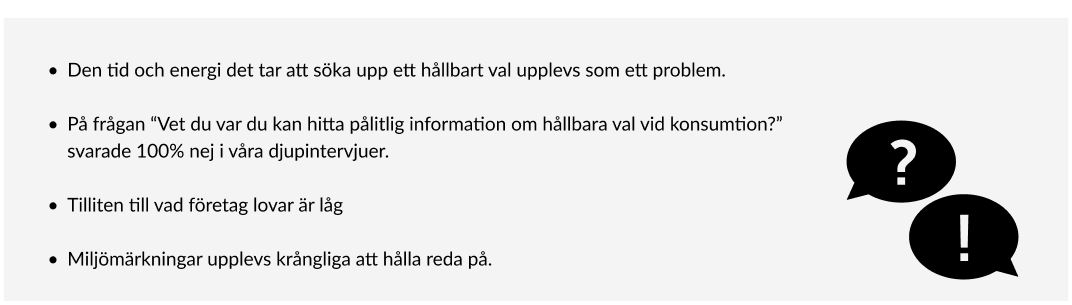
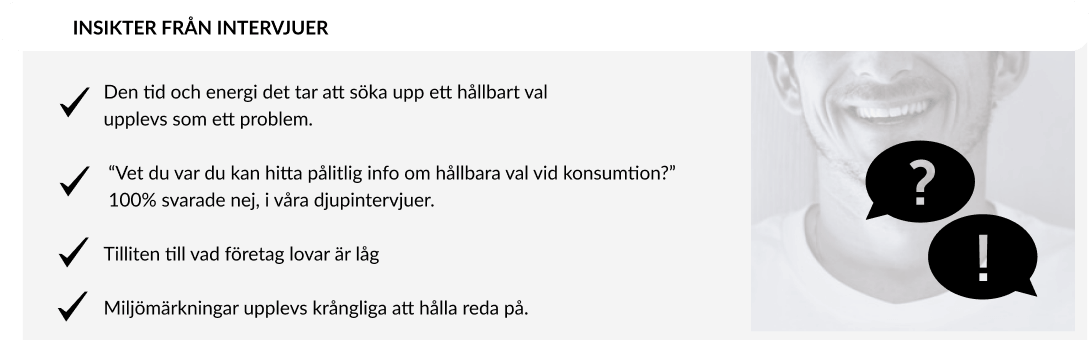
Tillägg innehåll

diff --git a/project1.html b/project1.html
@@ -34,7 +34,7 @@
                 <h1>UX Case study
                     <br><span>Hållbara <br> köpguiden</span>
                 </h1>
-                <p class="ingress_projekt">Trots att man försöker vara insatt och göra medvetna konsumtionsval, är det
+                <p class="ingress_projekt">Hur mycket man än försöker läsa på och göra hållbara val, är det
                     nästan alltid väldigt svårt.
                     <br> Det rätta valet borde vara det lätta valet.
                     <br> <br>
@@ -71,9 +71,10 @@
                 <p> 5 veckor</p>
             </div>
         </section>
+         <!-- 
         <section class="projektinfo_ruta_link">
             <a href=# target="_blank" class="button">Länk till prototypen</a>
-        </section>
+        </section>-->
 
         <!-- Projektets olika faser beskrivs med en artikel för varje fas -->
 
@@ -83,8 +84,12 @@
                 <h2>Design <br> Process</h2>
                 <div class="projekt_container_text">
                 <div class="projekt_text_spalt">
+                    <h3>Skapa en digital tjänst <br> med tema "Hållbarhet"</h3>
+                    <p>Alla vet att vi konsumerar alldeles för mycket i Sverige, och att man åtminstone borde välja det mer hållbara alternativet när man köper något. Men vad är hållbart? Vad var det nu igen som var så dåligt med vanlig tandkräm? Eller vanliga skor? Vad ska man välja istället? Vi ville hitta en lösning som gör hållbar konsumtion enklare för konsumenterna.</p>
                     <h3>Design thinking i fem steg</h3>
-                    <p> Vi har tillsammans samlat in kvantitativ information, intervjuat, skissat, och användartestat. Detta för att samtliga i gruppen skulle kunna vara med i hela designprocessen <br> <br> Insikter om användarna från de olika faserna påverkade våra designbeslut genom hela projektet i takt med att vår lösning växte fram.</p>
+                    <p> Insikter om användarna genom faserna påverkade våra designbeslut i takt med att vår lösning växte fram.<br> <br> 
+                        Vi har tillsammans samlat in kvantitativ information, intervjuat, skissat, prototypat och användartestat. Detta för att samtliga i gruppen skulle kunna vara med i hela designprocessen.
+                          </p>
                 </div>
                 <div class="artikelbild_right" >
                     
@@ -120,16 +125,15 @@
                 <div class="projekt_container_text">
                     <div class="projekt_text_spalt">
                         <h3>Vad tänker konsumenter <br> om hållbarhet? </h3>
-                        <p>  Svårt? Värt besväret? Genom <strong>intervjuer</strong> med deltagare i varierande åldrar och med olika stort intresse i miljöfrågor ville vi ta reda på det. 
-                             Vi gjorde <strong>användartest</strong> av en konkurrerande sajt (klimatsmart.se) och letade upp <strong> statistik </strong> från konsumentverket om hur svenskar upplever hållbar konsumtion.</p>
+                        <p>  Svårt - i så fall varför? Värt besväret? Genom <strong>intervjuer</strong> med deltagare i varierande åldrar och med olika stort intresse i miljöfrågor ville vi ta reda på det. 
+                             Vi gjorde <strong>användartest</strong> av en konkurrerande sajt (klimatsmart.se) och letade upp <strong> statistik från konsumentverket </strong> om hur svenskar upplever hållbar konsumtion.</p>
 
                             <h3>Konkurrenter - vad har tidigare gjorts?</h3>
-                            <p> Det finns sajter och appar för mer hållbar konsumtion men främst på smala områden som mat eller skönhetsartiklar. Intressant med appar för matvaror där varors hållbarhet mäts och jämförs. <br> <br> Klimatsmart.se verkar ha ett liknande koncept som vårt, men våra användartest visade att avsändaren kändes svår att lita på, man önskade ett smidigare sök och bättre översikt. Och mer konkreta tips och råd</p>   
+                            <p> Sajter och appar för mer hållbar konsumtion finns främst på nischade områden som mat eller skönhetsartiklar. Intressant med appar för matvaror där varors hållbarhet mäts och jämförs. Går det att använda på våra produkter? <br> <br> Klimatsmart.se har ett bredare koncept, likt vårt. Men våra användartest visade att avsändaren kändes svår att lita på, man önskade ett smidigare sök och bättre översikt. Och mer konkreta tips och råd</p>   
                     </div>
 
                 </div>
                 <div class="projekt_container_bild">
-                    <h3>Insikter om användarna </h3>
                     <img src="images/intervjuer_insikt.png" alt="Det tar tid och energi att söka upp ett hållbart val. Ingen vet var man kan hitta pålitlig information om hållbara val. Tilliten till företag är låg. Miljömärkningar krångliga.">
                 </div>
                 <div class="projekt_container_bild">
@@ -138,7 +142,7 @@
                
                 <div class="projekt_container_citat">
                     
-                    <p>Den stora misstänksamhet som finns gentemot företagande och hållbarhet var något som överraskade oss. En trovärdig avsändare och tydlighet kring hur tjänsten finanseras är därför otroligt viktigt.  </p>
+                    <p>Den stora misstänksamhet som finns gentemot företagande och hållbarhet var något som överraskade oss. En trovärdig avsändare och tydlighet kring hur tjänsten finansieras är därför otroligt viktigt.  </p>
                     <h4>Insikt efter research</h4>
                     
                 </div>
@@ -180,7 +184,7 @@
             <div class="projekt_container_citat">
                     
                 <p> " 
-                    Som konsument vill jag få reda på vilka mer hållbara alternativ som finns och varför när jag ska köpa något. För att det är viktigt att det blir lätt att göra rätt i omställningen till en smartare värld.
+                    Som konsument vill jag få reda på vilka mer hållbara alternativ som finns, och varför, när jag ska köpa något. För att det är viktigt att det blir lätt att göra rätt i omställningen till en smartare värld.
                     "</p>
                 <h4>USER STORY</h4>
                 
@@ -206,39 +210,29 @@
                     <div class="projekt_text_spalt">
                         <h3>Vinnande upplägg - wireframes</h3>
                         <p> 
-                            <p><strong>Startsida:</strong></p>
-    <ul>
-                                <li>Tydlig avsändare med hög trovärdighet.</li>
+                            <strong>Startsida:</strong>
+    
+                                Tydlig avsändare med hög trovärdighet. Sökruta. Kategorier för produkter. Artiklar om hållbarhet. Om oss, hur vi jämför produkter (hållbarhetsindex)</p>
                                 
-                                <li>Sök för de som vet vilken produkt de söker efter. Sök för de som vet vilken produkt de söker efter</li>
                                 
-                               <li>Kategorier för olika typer av produkter.</li> 
+                                <p> <strong>Kategorisida:</strong>
+                                Generell info om hållbarhet inom kategorin. 
+                                Snabba råd för att enkelt göra ett bättre val.
                                 
-                               <li>Artiklar om hållbarhet </li>
-                                <li>Länk till vårt hållbarhetsindex.</li> </ul>
-                                <br> <br>
-                               <p><strong>Kategorisida:</strong></p> 
-                                <ul>
-                               <li>Generell info om hållbarhet inom kategorin.</li> 
+                     Produkter med filtreringfunktion.
                                 
-                                <li>Snabba råd för att enkelt göra ett bättre val.</li>
-                                
-                               <li>Produkter med filtrering.</li> 
-                                
-                               <li>Tips på produkter second hand.</li> </ul>
-                               <br></p>
+                             Tips om second hand, cirkulära tjänster för kategorin.
+                               </p>
                     </div>
                     <div class="projekt_text_spalt">
                         <h3>.</h3>
-                        <p> <p><strong>Produktsida:</strong></p>
-                         <ul>  
-                        <li>Produktinfo samt betyg & recensioner.</li> 
+                        <p> <strong>Produktsida:</strong>
+                        Produktinfo samt betyg & recensioner.
                          
-                         <li>Inköpsställen med priser på produkten.</li>
+                    Inköpsställen med priser på produkten.
                          
-                         <li>Hållbarhetsindex, visar hur hållbar produkten är.</li>
-                         
-                         <li>Tips var man kan hitta produkter second hand.</li></ul>   </p>
+                         Hållbarhetsindex, visar hur hållbar produkten är.
+                         </p>
                     </div>
 
                 </div>
@@ -279,7 +273,7 @@ Samarbetet med Naturskyddsföreningen inger förtroende.</p>
             <li>Ändra Köpguiden.se till Köpguiden</li>       
              <li>Mouse-over info för snabb fakta/ tydlighet</li>     
              <li>Gladare design</li>
-             <li>Mer info om vilka “ni” är, kontaktuppgifter</li> 
+             <li>Mer info om vilka “ni” är, kontaktuppgifter, finansiering</li> 
              <li>Produktsidan bör visa produkter mer direkt</li>
              <li>Symbol tumme ner/upp bättre än smiley</li></ul>
         </div>
@@ -332,12 +326,12 @@ Samarbetet med Naturskyddsföreningen inger förtroende.</p>
     <div class="projekt_container_text">
     <div class="projekt_text_spalt">
         <h3>Vad lärde vi oss?</h3>
-        <p> 
-             Vikten av att jobba agilt och ständigt få nya insikter som man kan implementera längs vägen. <br><br>
+        <p> <ul>
+            <li> Vikten av att jobba agilt och ständigt få nya insikter som man kan implementera längs vägen.</li> <br>
 
-            Lita på designprocessen, det finns i slutänden en anledning till att man gör allt i rätt ordning. <br><br>
+           <li> Lita på designprocessen, det finns i slutänden en anledning till att man gör allt i rätt ordning.</li> <br>
             
-            Good enough - fastna inte i detaljer tidigt. De kanske inte finns kvar i slutet ändå. </p>
+           <li> Good enough - fastna inte i detaljer tidigt. De kanske inte finns kvar i slutet ändå. </li></ul> </p>
        
     </div>
     

diff --git a/uxproject_dustin.html b/uxproject_dustin.html
@@ -117,10 +117,12 @@
                                 <li>Tillgänglighetsgranskning</li>
                                 <br> <br>
                         <h3>Vilka hinder finns i användarflödet <br> i nuvarande webbplats? </h3>
-                        <p> Genom <strong>intervjuer & användartest</strong> med personer i yrkesroller som beställt, eller skulle kunna beställa, produkter från Dustin. <br> <strong>Resultat:</strong> svårt att få översikt, veta vilken produkt som bäst passar mitt behov, förstå tekniska termer, förstå underkategorier, hitta bland filtren, jämföra produkter, få svar på frågor som dyker upp. </p>
-
+                        <p> Genom <strong>intervjuer & användartest</strong> med personer som beställt, eller skulle kunna beställa, produkter från Dustin i sin yrkesroll.  <br> <strong>Hinder:</strong> svårt att få översikt, veta vilken produkt som bäst passar mitt behov, förstå tekniska termer, förstå underkategorier, hitta bland filtren, jämföra produkter, få svar på frågor som dyker upp. 
+                           
                             <h3>Konkurrenter - hur gör andra?</h3>
-                            <p> Atea anses som Dustins främsta konkurrent inom B2B, men även IT-försäljningssajter som är mer inriktade mot privatpersoner konkurrerar. Atea är starkare på att ge konkreta och tillgängliga råd för mer hållbar IT. Privatsektorn är ofta mer pedagogiska. </p>   
+                            <p> Atea anses som Dustins främsta konkurrent inom B2B, men även IT-försäljningssajter som är mer inriktade mot privatpersoner konkurrerar. Atea är starkare på att ge konkreta och tillgängliga råd för mer hållbar IT. Privatsektorn är ofta något mer pedagogiska. </p> 
+                           
+  
                            
                     </div>
                     <div class="artikelbild_right" >
@@ -128,12 +130,17 @@
                         <img class="artikelbild_right" src="images/citat_dustin.png" alt="De fem faserna: skapa empati, analysera & definiera, idé & koncept, prototyp, användartesta ">
                     </div>
                 </div>
-             
+                <div class="projekt_container_bild">
+                    <img src="images/uxreview_kat.png" alt="Lista med förbättringsförslag efter tillgänglighetsgranskning.">
+                    
+                    
+                </div>
+                <br>
                 <div class="projekt_container_bild">
                     <img src="images/wcag_dustin.png" alt="Lista med förbättringsförslag efter tillgänglighetsgranskning.">
                     
                 </div>
-               
+            
                
                 <div class="projekt_container_citat">
                     
@@ -299,8 +306,8 @@
     <div class="projekt_container_text">
     <div class="projekt_text_spalt">
         <h3>Resultatet - undersidor</h3>
-        <p>  Designbeslut för råd och guidning kommer från behov att förstå vem man kan kontakta, hur och vad man kan få hjälp med. Tidigare var tips om guider, tjänster och kontakt utspritt och svårt att hitta tillbaka till. Relationsbaserat sälj är ett viktigt effektmål och får här fokus och en samlad plats.
-            <br> <br> Att hållbarhet är ett prioriterat område för Dustin märktes inte på sajten. Svårt att hitta och med fokus på svårigheter istället för lösningar med tips som var svåra att följa. Lösningen blev en tydlig ingång, konkreta tips och hjälp med urval. 
+        <p>  Designbeslut för <strong>råd och guidning </strong>  kommer från behov att förstå vem man kan kontakta, hur och vad man kan få hjälp med. Tidigare var tips om guider, tjänster och kontakt utspritt och svårt att hitta tillbaka till. Relationsbaserat sälj är ett viktigt effektmål och får här fokus och en samlad plats.
+            <br> <br> Att <strong>hållbarhet</strong>  är ett prioriterat område för Dustin märktes inte på sajten. Svårt att hitta och med fokus på svårigheter istället för lösningar med tips som var svåra att följa. Lösningen blev en tydlig ingång, konkreta tips och hjälp med urval. 
         </p>
     </div>
   
@@ -312,25 +319,42 @@
     <img src="images/prototyp_dustin_mtext.jpg" alt="">
     
 </div>
+<article class="projekt_artikel_color1">
+   
+    <div class="projekt_container_text">
+    <div class="projekt_text_spalt">
+        <h3>Resultatet - kategori / filtrering / jämför</h3>
+        <p>  Designbeslut för <strong>råd och guidning </strong>  kommer från behov att förstå vem man kan kontakta, hur och vad man kan få hjälp med. Tidigare var tips om guider, tjänster och kontakt utspritt och svårt att hitta tillbaka till. Relationsbaserat sälj är ett viktigt effektmål och får här fokus och en samlad plats.
+            
+        </p>
+    </div>
+  
+</div>
 
+</article>
+
+<div class="projekt_container_bild_bred">
+    <img src="images/prototyp_datorer.jpg" alt="">
+    
+</div>
 <!-- Artikel Efter Arbetet--> 
 <article class="projekt_artikel_color2">
     <div class="projekt_container_citat">
         
-        <p> "Röd tråd genom hela projektet och alla delar korrekt utförda. Bra jobbat!!."</p>
+        <p> "Röd tråd genom hela projektet och alla delar korrekt utförda. Bra jobbat!!"</p>
         <h4>Feedback från Tobias Landén, lärare i UX</h4>
         
     </div>
     <h2>Efter arbetet</h2>
     <div class="projekt_container_text">
     <div class="projekt_text_spalt">
-        <h3>Vad lärde vi oss?</h3>
+        <h3>Vad lärde jag mig?</h3>
         <p> 
-             Vikten av att jobba agilt och ständigt få nya insikter som man kan implementera längs vägen. <br><br>
+             Användartest med observation är världigt effektivt för att hitta förbättringsområden i användarupplevese för en befintlig webbplats. <br><br>
 
             Lita på designprocessen, det finns i slutänden en anledning till att man gör allt i rätt ordning. <br><br>
             
-            Good enough - fastna inte i detaljer tidigt. De kanske inte finns kvar i slutet ändå. </p>
+            Inom IT och teknikprodukter behövs även perspektivet från ointresserade eller mindre kunniga i ämnet, men som ändå har ett köpbehov.   </p>
        
     </div>
     

diff --git a/om_mig.html b/om_mig.html
@@ -66,7 +66,7 @@
         </p> -->
             <h3>Kravkompetens</h3>
             <p>Kravhantering har många likheter med UX. 
-                 Att förstå olika behov, skapa samsyn och prioritera och dokumentera krav är en förutsättning för att ett projekt ska lyckas!</p>
+                 Att förstå olika behov, skapa samsyn och att prioritera och dokumentera krav är en förutsättning för att ett projekt ska lyckas!</p>
                 <h3>Digital tillgänglighet</h3>
                 <p>Nya lagar gör att digitala tjänster måste vara tillgängliga för alla, oavsett förutsättningar. 
                     Min utbildning har stort fokus på verktyg och metoder för att möta de behoven. <br> <br> För mig handlar tillgänglighet om empati och inkludering och är något som jag ser fram emot att få jobba med.</p>
@@ -77,16 +77,16 @@
 <section class="spalt2_wrapper">
     <div class="spalt2">
         <h2>Om mig</h2>
-    <p>Jag är grafisk designer som mitt i karriären har jag tagit steget att lära mig allt om UX. Något som känns helt rätt! 
-        Jag vill jobba med användarfokus i digitalisering som är till nytta för både kund och företag. <br> <br> Mina styrkor är att jag är engagerad och nyfiken och älskar att
-        lära mig mer om allt från människor till brancher och tekniker.
+    <p>Jag är grafisk designer som mitt i karriären har tagit steget att inrikta min kompetens mot UX. Något som känns helt rätt! 
+        Jag vill jobba med användarfokus i digitalisering och utveckling, som är till nytta för både kund och företag. Digital tillgänglighet är ett område jag brinner extra för - med nya lagar på G är det en superkraft! <br> <br> Några av mina styrkor är att jag är engagerad och nyfiken och älskar att
+        lära mig mer om allt från människor till brancher och nya tekniker.
      </p>
       <div class="avdelare">
       </div>
       <br>
       <h2>Yrkeserfarenhet & utbildning</h2>
     <p>Efter <strong> högskoleutbildning i informationsdesign </strong> och illustration har jag över tio års erfarenhet som grafisk formgivare och digital medieproducent. <br> <br>
-    <strong> UX-design med kravkompetens på Chas Academy</strong> är en yrkesutbildning där sex månader trainee-period som UX på ett företag ingår. <br> <br> Jag har lärt mig att arbeta som ambassadör för användarna av digitala tjänster, och att agera som ett slags översättare mellan affärssidan och utvecklarna. Lösa problem med designmetodik, arbeta fram prototyper och visualisera och kommunicera krav på IT-lösningar.</p>
+    <strong> UX-design med kravkompetens på Chas Academy</strong> är en yrkesutbildning där sex månader trainee-period som UX på ett företag ingår. <br> <br> Jag har lärt mig att arbeta som ambassadör för användarna av digitala tjänster och att agera som ett slags översättare mellan affärssidan och utvecklarna. Lösa problem med designmetodik, arbeta fram prototyper och visualisera och kommunicera krav på IT-lösningar.</p>
     </div>
 </section>
     </main>

diff --git a/project3.html b/project3.html
@@ -85,7 +85,7 @@
                         Ibland med länkning till enkla <strong>landningssidor</strong> som jag byggde. Jag har också erfarenhet av Native annonsering som liknar tidningsartiklar och skapas i <strong>WordPress</strong>   </p>
                     </div>
                     <div>
-                        <img class="artikelbild_right" src="images/digitalakampanjer.jpg" alt="Digitala annonser för smycken; ge en del av häsingland i julklapp">
+                        <img class="artikelbild_right" src="images/banner_guldsmed.jpg" alt="Digitala annonser för smycken; ge en del av häsingland i julklapp">
                     </div>
                 </div>
             </article>
@@ -131,8 +131,8 @@
                     <h2>Print- <br> annonsering </h2>
                     <div class="projekt_container_text">
                         <div class="projekt_text_spalt">
-                            <h3>Problem</h3>
-                            <p>I mixen av kanaler för marknadsföring ingick även tidningsannonser med grafisk produktion i InDesign.</p>
+                            <h3>Printproduktion</h3>
+                            <p>I mixen av kanaler för marknadsföring och i mina arbetsuppgifter ingick även tidningsannonser med grafisk produktion i InDesign.</p>
                         </div>
                         <div>
                             <img class="artikelbild_right" src="images/tidningsannons.png" alt="Digitala annonser för smycken, ge en del av häsingland i julklapp">
